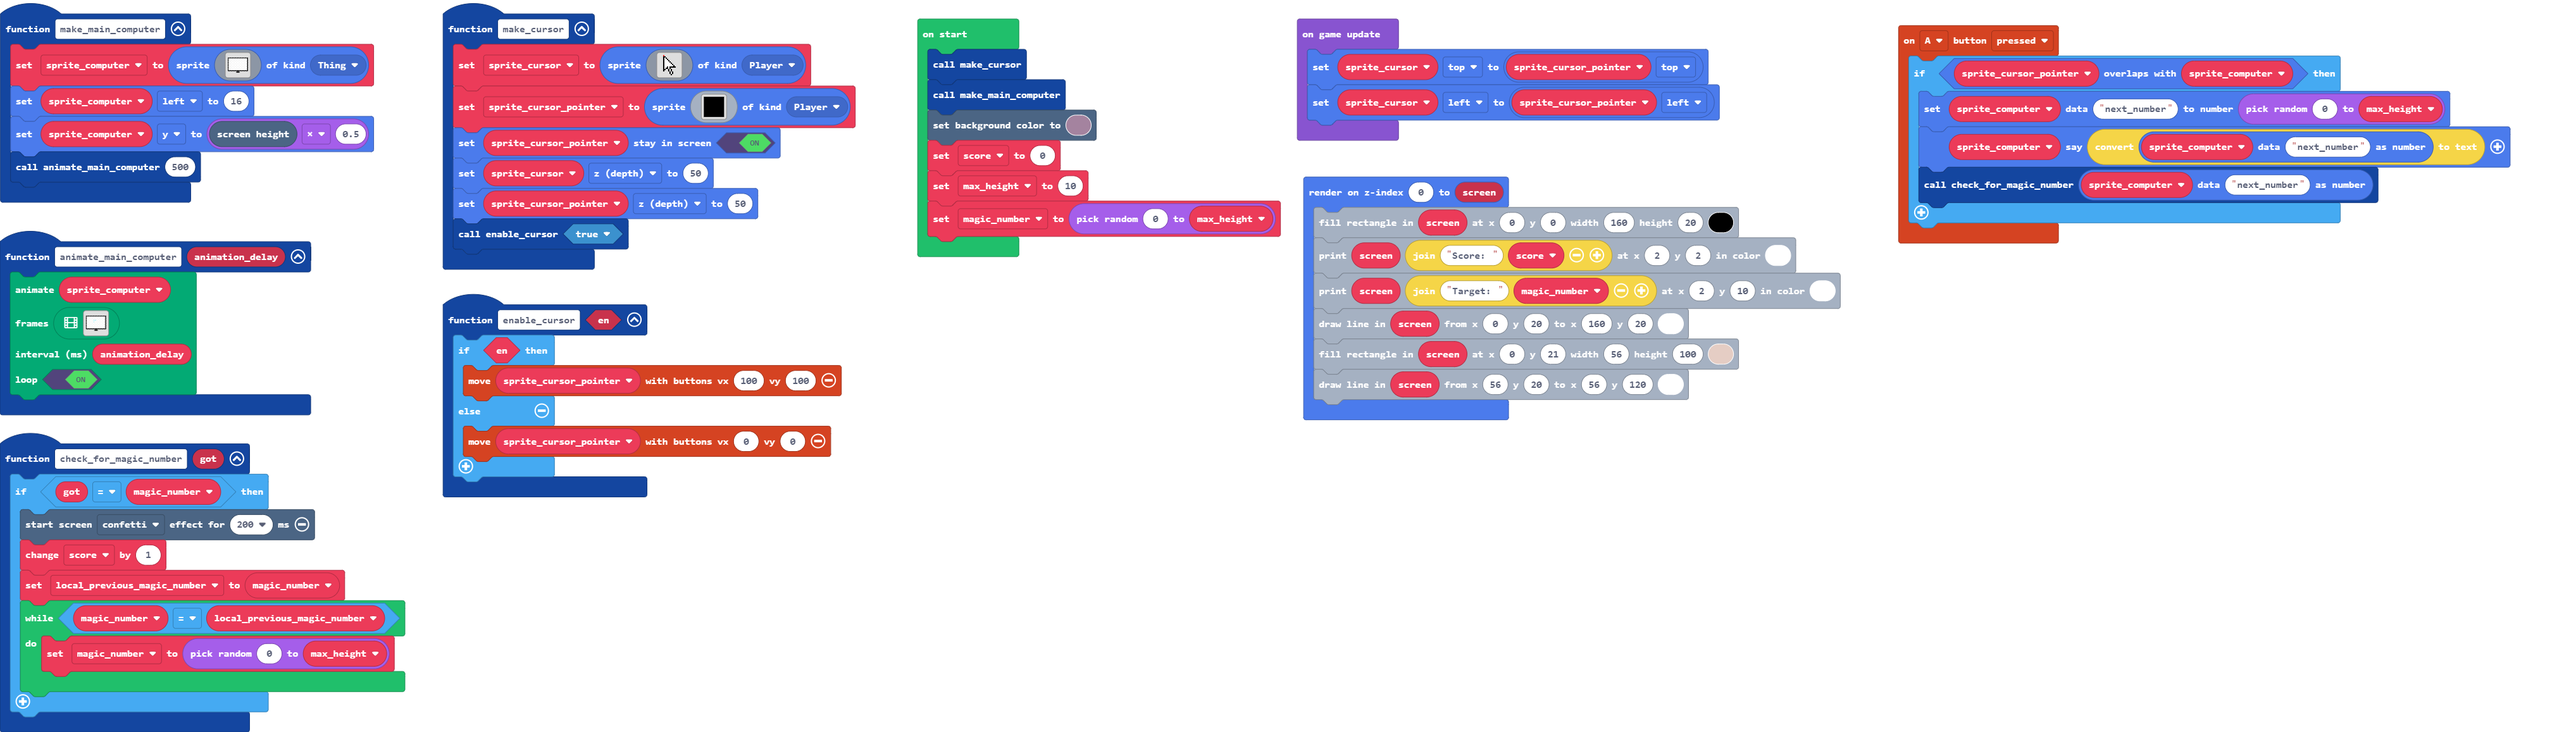
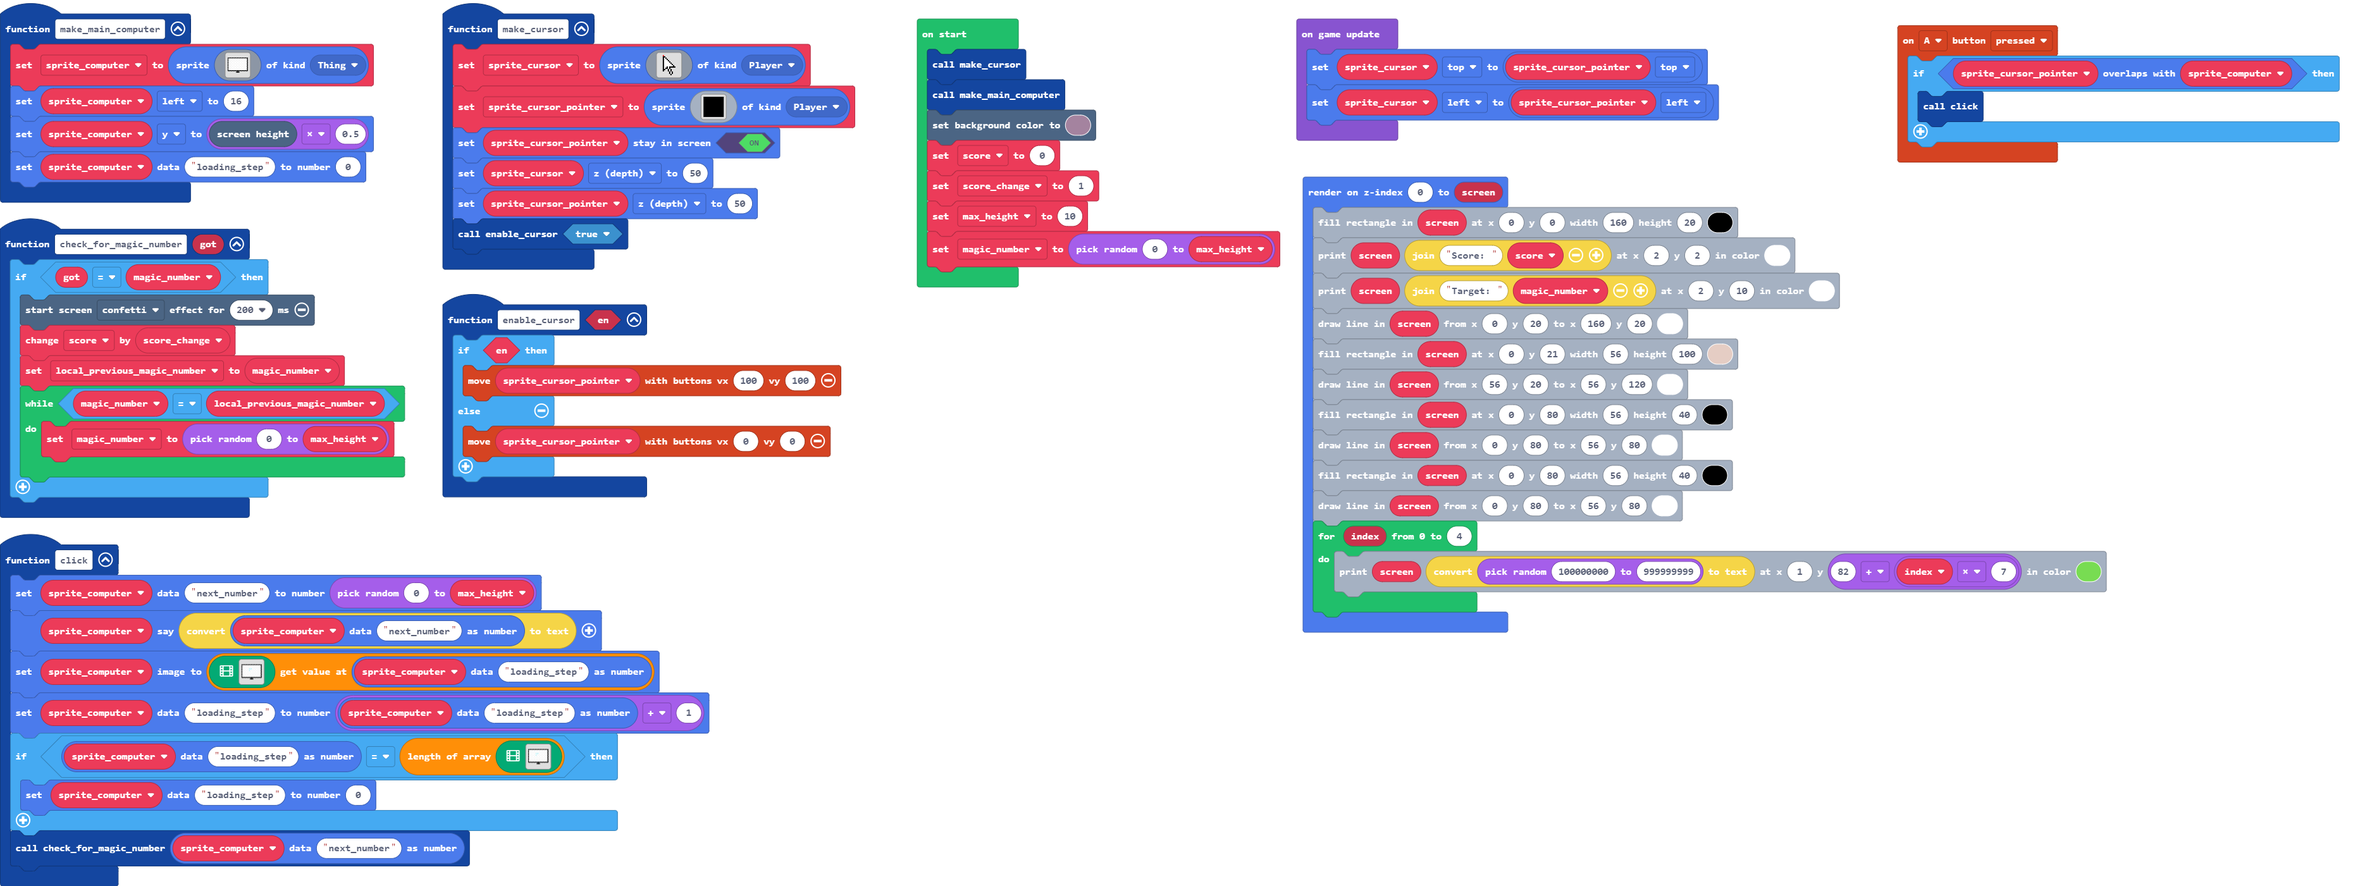
Move computer click into function and show random digits for fun

diff --git a/main.ts b/main.ts
@@ -1,21 +1,21 @@
 namespace SpriteKind {
     export const Thing = SpriteKind.create()
 }
+function click () {
+    sprites.setDataNumber(sprite_computer, "next_number", randint(0, max_height))
+    sprite_computer.say(convertToText(sprites.readDataNumber(sprite_computer, "next_number")))
+    sprite_computer.setImage(assets.animation`computer_monitor_loading`[sprites.readDataNumber(sprite_computer, "loading_step")])
+    sprites.setDataNumber(sprite_computer, "loading_step", sprites.readDataNumber(sprite_computer, "loading_step") + 1)
+    if (sprites.readDataNumber(sprite_computer, "loading_step") == assets.animation`computer_monitor_loading`.length) {
+        sprites.setDataNumber(sprite_computer, "loading_step", 0)
+    }
+    check_for_magic_number(sprites.readDataNumber(sprite_computer, "next_number"))
+}
 controller.A.onEvent(ControllerButtonEvent.Pressed, function () {
     if (sprite_cursor_pointer.overlapsWith(sprite_computer)) {
-        sprites.setDataNumber(sprite_computer, "next_number", randint(0, max_height))
-        sprite_computer.say(convertToText(sprites.readDataNumber(sprite_computer, "next_number")))
-        check_for_magic_number(sprites.readDataNumber(sprite_computer, "next_number"))
+        click()
     }
 })
-function animate_main_computer (animation_delay: number) {
-    animation.runImageAnimation(
-    sprite_computer,
-    assets.animation`computer_monitor_loading`,
-    animation_delay,
-    true
-    )
-}
 function make_cursor () {
     sprite_cursor = sprites.create(assets.image`cursor`, SpriteKind.Player)
     sprite_cursor_pointer = sprites.create(assets.image`cursor_pointer`, SpriteKind.Player)
@@ -31,6 +31,13 @@ spriteutils.createRenderable(0, function (screen2) {
     screen2.drawLine(0, 20, 160, 20, 1)
     screen2.fillRect(0, 21, 56, 100, 13)
     screen2.drawLine(56, 20, 56, 120, 1)
+    screen2.fillRect(0, 80, 56, 40, 15)
+    screen2.drawLine(0, 80, 56, 80, 1)
+    screen2.fillRect(0, 80, 56, 40, 15)
+    screen2.drawLine(0, 80, 56, 80, 1)
+    for (let index = 0; index <= 4; index++) {
+        images.print(screen2, convertToText(randint(100000000, 999999999)), 1, 82 + index * 7, 7)
+    }
 })
 function enable_cursor (en: boolean) {
     if (en) {
@@ -42,7 +49,7 @@ function enable_cursor (en: boolean) {
 function check_for_magic_number (got: number) {
     if (got == magic_number) {
         effects.confetti.startScreenEffect(200)
-        score += 1
+        score += score_change
         local_previous_magic_number = magic_number
         while (magic_number == local_previous_magic_number) {
             magic_number = randint(0, max_height)
@@ -53,19 +60,21 @@ function make_main_computer () {
     sprite_computer = sprites.create(assets.image`computer_monitor`, SpriteKind.Thing)
     sprite_computer.left = 16
     sprite_computer.y = scene.screenHeight() * 0.5
-    animate_main_computer(500)
+    sprites.setDataNumber(sprite_computer, "loading_step", 0)
 }
 let local_previous_magic_number = 0
 let sprite_cursor: Sprite = null
-let sprite_computer: Sprite = null
 let sprite_cursor_pointer: Sprite = null
+let sprite_computer: Sprite = null
 let magic_number = 0
 let max_height = 0
+let score_change = 0
 let score = 0
 make_cursor()
 make_main_computer()
 scene.setBackgroundColor(11)
 score = 0
+score_change = 1
 max_height = 10
 magic_number = randint(0, max_height)
 game.onUpdate(function () {
